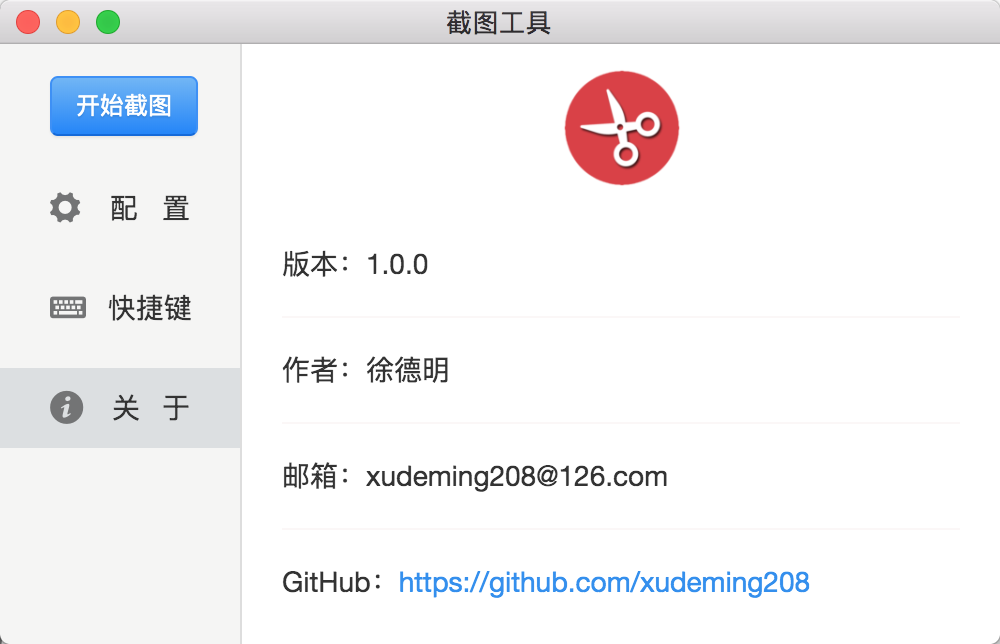
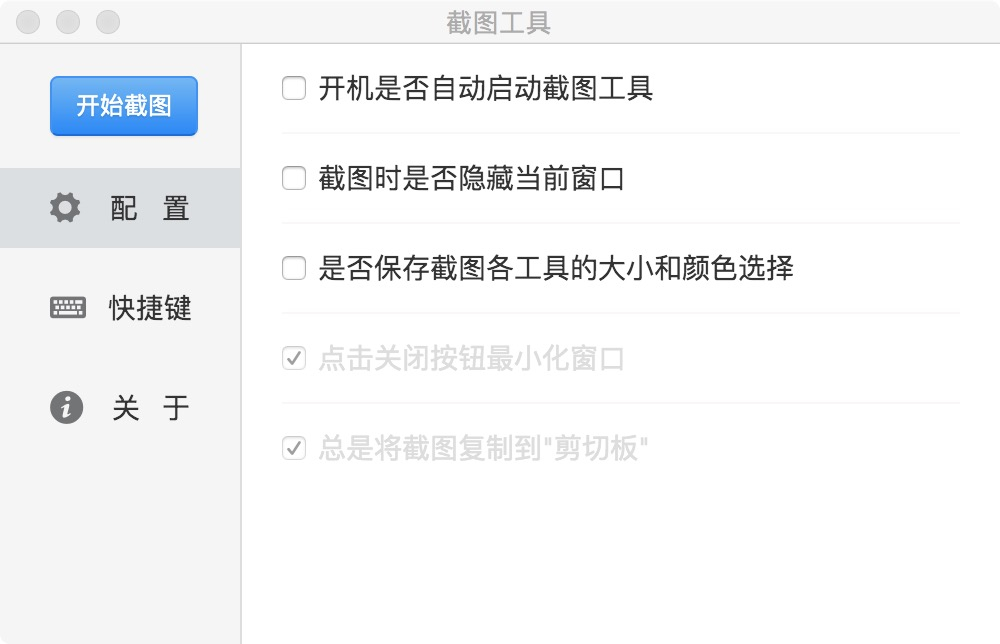
up

diff --git a/renderer/capture/edit.js b/renderer/capture/edit.js
@@ -108,7 +108,7 @@ const saveFocusText = () => {
 	// 考虑文本换行的情况
 	let arr = textConfig.dom.innerText ? textConfig.dom.innerText.split('\n') : [];
 	arr.forEach((item, index) => {
-		canvasDomCtx.fillText(item, textConfig.originX, textConfig.originY + index * configObj.text.fontSize * ratio);
+		canvasDomCtx.fillText(item, textConfig.originX, textConfig.originY + index * toolConfigObj.text.fontSize * ratio);
 	});
 
 	document.body.removeChild(textConfig.dom);
@@ -126,7 +126,7 @@ const domSize = document.querySelectorAll('.size');
 const domColor = document.querySelectorAll('.color');
 let curTool = 'rect';
 // 保存配置大小和颜色的对象.避免每次切换工具都重置大小和颜色。下面的值都是默认值
-let configObj = {
+let toolConfigObj = {
 	rect: {
 		lineWidth: 2 * ratio,
 		strokeStyle: '#f00',
@@ -158,6 +158,12 @@ let configObj = {
 		colorIndex: 0,
 	},
 }
+
+// 如果选中了“是否保存截图工具的大小和颜色选择”，则获取localstorage中的配置，否则用默认值
+if (+localStorage.toolInput && localStorage.toolConfigObj) {
+	toolConfigObj = JSON.parse(localStorage.toolConfigObj);
+}
+
 // 重置大小、颜色的cur
 const resetSizeColorCur = (isSize, isColor) => {
 	if (isSize) {
@@ -189,7 +195,7 @@ const sizeColorChange = type => {
 			iconArrow.style.left = '80px';
 			curTool = 'arrow';
 			// 箭头的填充色和边框色一样
-			canvasDomCtx.fillStyle = configObj.arrow.strokeStyle;
+			canvasDomCtx.fillStyle = toolConfigObj.arrow.strokeStyle;
 			break;
 		case 'graffiti':
 			iconArrow.style.left = '115px';
@@ -198,19 +204,19 @@ const sizeColorChange = type => {
 		case 'text':
 			iconArrow.style.left = '151px';
 			curTool = 'text';
-			domSize[configObj.text.sizeIndex].classList.add('size-cur');
-			domColor[configObj.text.colorIndex].classList.add('color-cur');
-			canvasDomCtx.font = '' + configObj.text.fontSize * ratio + 'px "微软雅黑"';
-			canvasDomCtx.fillStyle = configObj.text.fillStyle;
+			domSize[toolConfigObj.text.sizeIndex].classList.add('size-cur');
+			domColor[toolConfigObj.text.colorIndex].classList.add('color-cur');
+			canvasDomCtx.font = '' + toolConfigObj.text.fontSize * ratio + 'px "微软雅黑"';
+			canvasDomCtx.fillStyle = toolConfigObj.text.fillStyle;
 			break;
 	}
 
 	// 共同的部分
 	if (['rect', 'circle', 'arrow', 'graffiti'].includes(curTool)) {
-		domSize[configObj[curTool].sizeIndex].classList.add('size-cur');
-		domColor[configObj[curTool].colorIndex].classList.add('color-cur');
-		canvasDomCtx.lineWidth = configObj[curTool].lineWidth;
-		canvasDomCtx.strokeStyle = configObj[curTool].strokeStyle;
+		domSize[toolConfigObj[curTool].sizeIndex].classList.add('size-cur');
+		domColor[toolConfigObj[curTool].colorIndex].classList.add('color-cur');
+		canvasDomCtx.lineWidth = toolConfigObj[curTool].lineWidth;
+		canvasDomCtx.strokeStyle = toolConfigObj[curTool].strokeStyle;
 	}
 }
 // 工具点击事件
@@ -222,12 +228,12 @@ toolCofig.addEventListener('click', e => {
 		resetSizeColorCur(true, false);
 		target.classList.add('size-cur');
 
-		configObj[curTool].lineWidth = +target.dataset.size * ratio;
-		configObj[curTool].sizeIndex = +target.dataset.index;
+		toolConfigObj[curTool].lineWidth = +target.dataset.size * ratio;
+		toolConfigObj[curTool].sizeIndex = +target.dataset.index;
 
 		// 文字时:
 		if (['text'].includes(curTool)) {
-			configObj[curTool].fontSize = +target.dataset.size * 8;
+			toolConfigObj[curTool].fontSize = +target.dataset.size * 8;
 		}
 	}
 
@@ -236,21 +242,24 @@ toolCofig.addEventListener('click', e => {
 		resetSizeColorCur(false, true);
 		target.classList.add('color-cur');
 
-		configObj[curTool].strokeStyle = target.dataset.color;
-		configObj[curTool].colorIndex = +target.dataset.index;
+		toolConfigObj[curTool].strokeStyle = target.dataset.color;
+		toolConfigObj[curTool].colorIndex = +target.dataset.index;
 
 		// 文字时:
 		if (['text'].includes(curTool)) {
-			configObj[curTool].fillStyle = target.dataset.color;
+			toolConfigObj[curTool].fillStyle = target.dataset.color;
 		}
 	}
 
 	// 改变大小和颜色后，要实时改变canvasDomCtx的配置，才能生效
 	sizeColorChange(curTool);
+
+	// 将配置保存到localstorage中
+	if (+localStorage.toolInput) {
+		localStorage.toolConfigObj = JSON.stringify(toolConfigObj);
+	}
 }, false);
 // 大小和颜色选择结束
-
-
 
 
 
@@ -580,7 +589,7 @@ const textMousedownFun = e => {
 		$('undo').classList.remove('undo-disabled');
 	});
 
-	textConfig.dom.style.cssText += 'position:fixed;z-index:50;padding:4px 8px;line-height: 1;border:1px solid #333;min-width:20px;resize: none;outline: none;font-size: ' + configObj.text.fontSize + 'px;font-family:"微软雅黑";color:' + configObj.text.fillStyle + ';left:' + e.clientX + 'px;top:' + e.clientY + 'px;';
+	textConfig.dom.style.cssText += 'position:fixed;z-index:50;padding:4px 8px;line-height: 1;border:1px solid #333;min-width:20px;resize: none;outline: none;font-size: ' + toolConfigObj.text.fontSize + 'px;font-family:"微软雅黑";color:' + toolConfigObj.text.fillStyle + ';left:' + e.clientX + 'px;top:' + e.clientY + 'px;';
 	document.body.appendChild(textConfig.dom);
 
 	// padding+border

diff --git a/static/js/index.js b/static/js/index.js
@@ -38,6 +38,8 @@ const launchInput = $('launchInput');
 const launchLabel = $('launchLabel');
 const hideInput = $('hideInput');
 const hideLabel = $('hideLabel');
+const toolInput = $('toolInput');
+const toolLabel = $('toolLabel');
 const tipsWrap = $('tipsWrap');
 const tipsContent = $('tipsContent');
 const github = $('github');
@@ -65,6 +67,12 @@ function init() {
 		hideInput.removeAttribute('checked');
 	}
 	ipcRenderer.send('is-hide-windows', +localStorage.hideInput);
+	// 是否保存截图工具的大小和颜色选择
+	if(+localStorage.toolInput) {
+		toolInput.setAttribute('checked', true);
+	} else {
+		toolInput.removeAttribute('checked');
+	}
 
 	// 快捷键
 	captureKeyBox.innerHTML = captureKey;
@@ -178,6 +186,23 @@ hideLabel.addEventListener('click', () => {
 	}
 	ipcRenderer.send('is-hide-windows', +localStorage.hideInput);
 	hideWindows = +localStorage.hideInput;
+}, false);
+// 是否保存截图工具的大小和颜色选择
+toolInput.addEventListener('click', () => {
+	if(toolInput.hasAttribute('checked')) {
+		toolInput.removeAttribute('checked');
+		localStorage.toolInput = 0;
+	} else {
+		toolInput.setAttribute('checked', true);
+		localStorage.toolInput = 1;
+	}
+}, false);
+toolLabel.addEventListener('click', () => {
+	if(toolInput.hasAttribute('checked')) {
+		localStorage.toolInput = 0;
+	} else {
+		localStorage.toolInput = 1;
+	}
 }, false);
 
 

diff --git a/renderer/index.html b/renderer/index.html
@@ -38,6 +38,10 @@
 					  		<input type="checkbox" id="hideInput">
 					  		<label for="hideInput" id="hideLabel">截图时是否隐藏当前窗口</label>
 					  	</div>
+					  	<div class="box-item">
+					  		<input type="checkbox" id="toolInput">
+					  		<label for="toolInput" id="toolLabel">是否保存截图各工具的大小和颜色选择</label>
+					  	</div>
 					  	<div class="box-item box-item-disabled">
 					  		<input disabled type="checkbox" id="miniInput" checked>
 					  		<label for="miniInput" id="miniLabel">点击关闭按钮最小化窗口</label>
